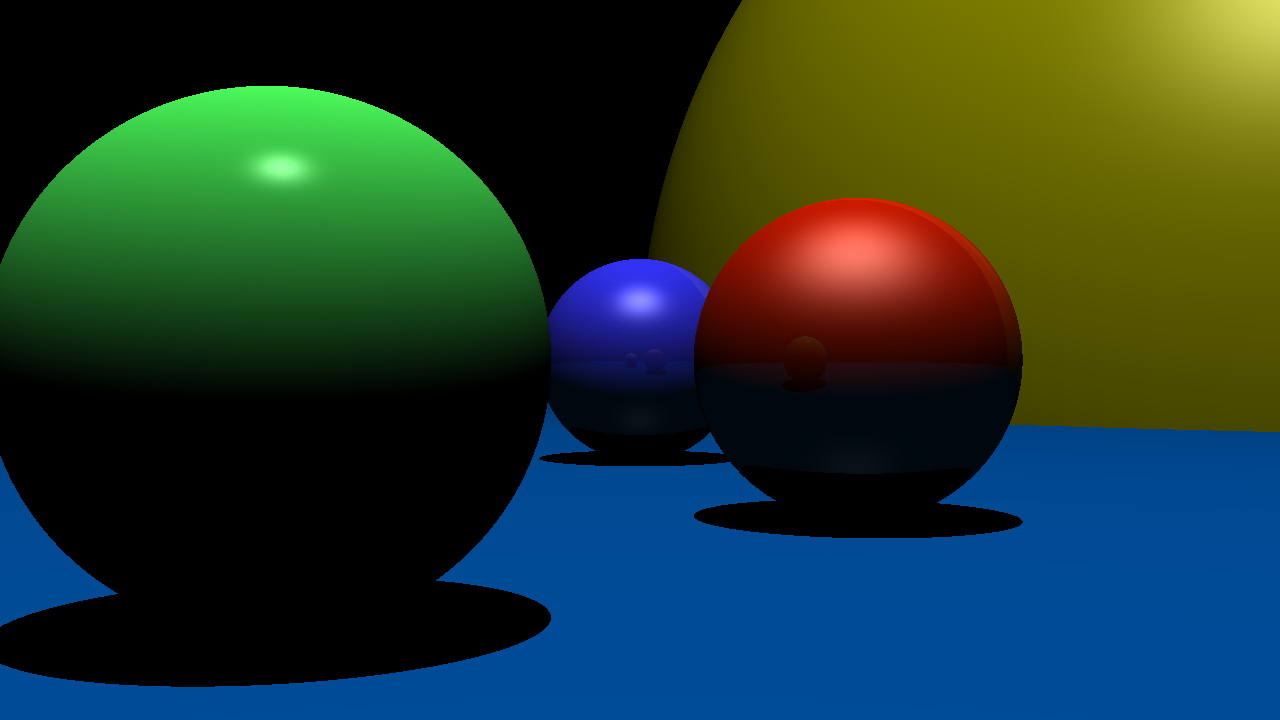
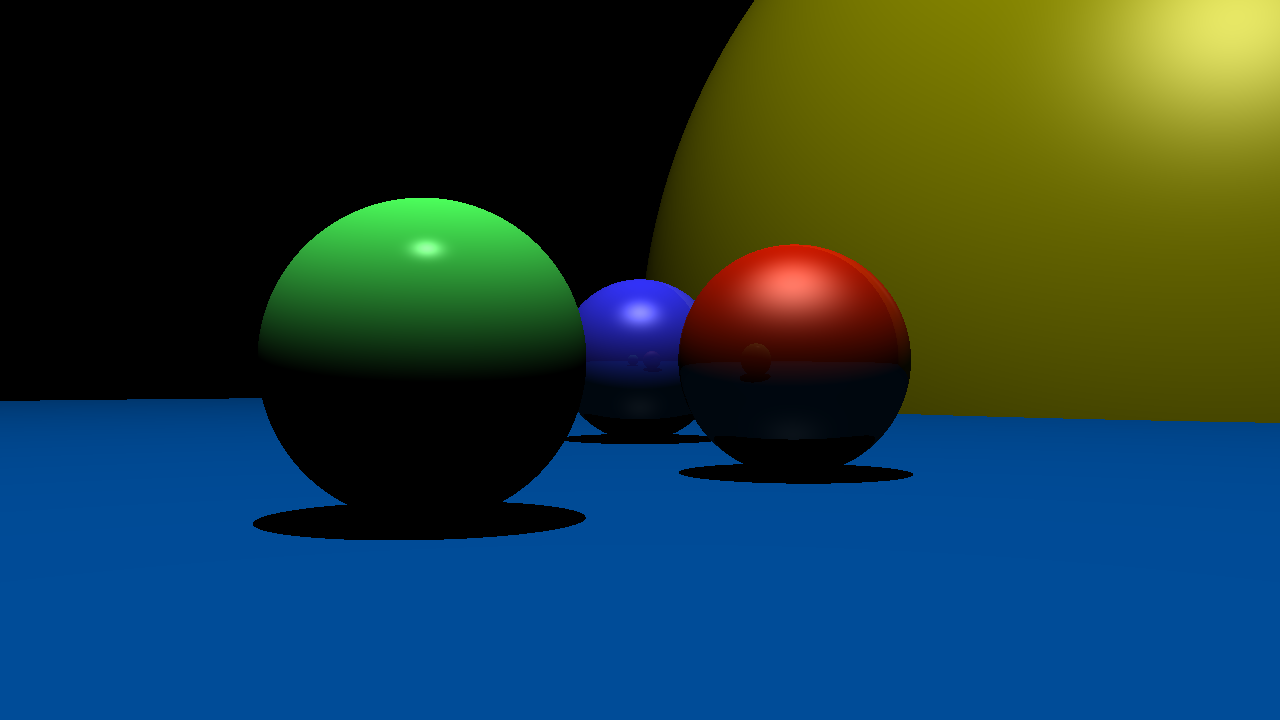
fixed camera translation

diff --git a/src/mat4.c b/src/mat4.c
@@ -92,11 +92,31 @@ Mat4 mult_mat(Mat4* m1, Mat4* m2){
 }
 
 /*
+ * Function: mult_vec_matrix_no_homo
+ * ----------------------------
+ *   Computes matrix-vector multiplication ignoring 4 homeogeneous value column, thus no translation component for view matrix component
+ *
+ *   returns: vector resulting from matrix multiplication
+ */
+Vec3 mult_vec_matrix_no_homo(Mat4* m, Vec3 v){
+
+    Vec3 res;
+
+    double x, y, z, w;
+
+    res.x = v.x * m->m[0][0] + v.y * m->m[0][1] + v.z * m->m[0][2];
+    res.y = v.x * m->m[1][0] + v.y * m->m[1][1] + v.z * m->m[1][2];
+    res.z = v.x * m->m[2][0] + v.y * m->m[2][1] + v.z * m->m[2][2];
+
+    return res;
+}
+
+/*
  * Function: mult_vec_matrix
  * ----------------------------
- *   TODO
+ *   Computes matrix-vector multiplication, Assumes homogenous value w of v is 1
  *
- *   returns: TODO
+ *   returns: vector resulting from matrix multiplication
  */
 Vec3 mult_vec_matrix(Mat4* m, Vec3 v){
 

diff --git a/src/camera.c b/src/camera.c
@@ -31,13 +31,14 @@ float degrees_to_rad(float x){
 }
 
 void move_camera(Camera *camera, Vec3 t){
-    camera->viewMatrix.m[0][3] += t.x;
-    camera->viewMatrix.m[1][3] += t.y;
-    camera->viewMatrix.m[2][3] += t.z;
+    camera->pos = vec_add(camera->pos, t);
+    camera->viewMatrix = look_at(camera->pos, camera->dir, up);
 }
 
-//TODO: Need matrix inversion
 void rotate_camera(Camera *camera, double xRot, double yRot){
+
+    
+    camera->viewMatrix = look_at(camera->pos, camera->dir, up);
 }
 
 Vec3 shoot_ray(Camera *camera, int i, int j){
@@ -48,7 +49,7 @@ Vec3 shoot_ray(Camera *camera, int i, int j){
 
     Vec3 dir = new_vector(x, y, camera->dir.z);
 
-    Vec3 sRay = mult_vec_matrix(&(camera->viewMatrix), dir);
+    Vec3 sRay = mult_vec_matrix_no_homo(&(camera->viewMatrix), dir);
 
     return vec_normalized(sRay);
 }

diff --git a/src/raymarcher.c b/src/raymarcher.c
@@ -210,7 +210,7 @@ void render(Scene scene, PointLight pLight)
     Camera* camera = create_camera(fov, width, height, 0, 1000);
 
     // translation example
-    Vec3 t = {0.0,0.0,0.0};
+    Vec3 t = {0.0,0.0,-10.0};
     move_camera(camera, t);
 
     // debug
@@ -227,7 +227,7 @@ void render(Scene scene, PointLight pLight)
         {
             Vec3 dir = shoot_ray(camera, x, y);
 
-            Vec3 px_col = trace(new_vector(0, 0, 0), dir, scene, pLight, 0, NULL);
+            Vec3 px_col = trace(camera->pos, dir, scene, pLight, 0, NULL);
             px_col = px_col;
 
             // save colors computed by trace into current pixel

diff --git a/include/mat4.h b/include/mat4.h
@@ -19,6 +19,8 @@ Mat4 transpose(Mat4* mat);
 
 Mat4 mult_mat(Mat4* m1, Mat4* m2);
 
+Vec3 mult_vec_matrix_no_homo(Mat4* m, Vec3 v);
+
 Vec3 mult_vec_matrix(Mat4* m, Vec3 v);
 
 Mat4 look_at(Vec3 pos, Vec3 dir, Vec3 up);
